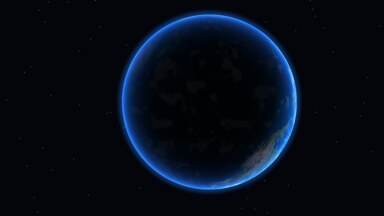
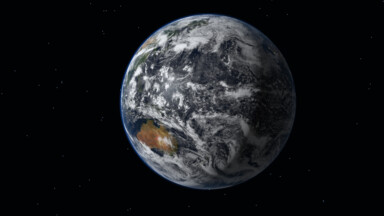
Integrate the published Blue Meridian Earth release

Changed region(s): [[0.2812, 0.0278, 0.8125, 0.9167]]

diff --git a/tests/test_build.py b/tests/test_build.py
@@ -250,6 +250,10 @@ class BuildChecks(unittest.TestCase):
                 'Cloud Drift Clock', 'com.jeremykenedy.clouddriftclock',
                 'com.jeremykenedy.clouddriftclock/.CloudDreamService', 'jeremykenedy/cloud-drift-clock',
[1 lines of base64/hex data omitted]
+            'blue-meridian': (
+                'Blue Meridian', 'com.jeremykenedy.bluemeridian',
+                'com.jeremykenedy.bluemeridian/.BlueMeridianDreamService', 'jeremykenedy/blue-meridian',
[1 lines of base64/hex data omitted]
             'earthbound-orbit': (
                 'Earthbound Orbit', 'com.jeremykenedy.earthboundorbit',
                 'com.jeremykenedy.earthboundorbit/.EarthboundOrbitDreamService',
@@ -295,7 +299,7 @@ class BuildChecks(unittest.TestCase):
             self.assertEqual(entry['package'], package)
             self.assertEqual(entry['dream'], dream)
             self.assertEqual(entry['repo'], repo)
-            release_tag = 'v2.0.0' if identifier == 'cloud-drift-clock' else {name: 'v1.1.0' for name in ('cloud-drift-clock', 'pipeworks-dream', 'nebula-drift', 'aqua-surface', 'split-flap-drift', 'canopy-drift')}.get(identifier, 'v1.0.0')
+            release_tag = 'v2.0.0' if identifier == 'cloud-drift-clock' else 'v1.0.1' if identifier == 'blue-meridian' else {name: 'v1.1.0' for name in ('cloud-drift-clock', 'pipeworks-dream', 'nebula-drift', 'aqua-surface', 'split-flap-drift', 'canopy-drift')}.get(identifier, 'v1.0.0')
             self.assertEqual(entry['tag'], release_tag)
             asset = 'aqua-surface-drift.apk' if identifier == 'aqua-surface' else f'{identifier}.apk'
             self.assertEqual(entry['url'],

diff --git a/docs/screensaver-previews.md b/docs/screensaver-previews.md
@@ -52,3 +52,9 @@ Prism Clock uses the [unretouched physical silver capture](../art/screenshots/pr
 The Cloud Drift Clock preview now comes from its final physical Fire TV API 28 capture of the real sunset flight, with the clock off. The 384x216 thumbnail is resized from the unretouched [native capture](../art/screenshots/cloud-flight-fire-tv-api28-1920.png). The filmed scene is by anotherview under CC BY 3.0; its attribution and complete license are bundled in **Advanced > Preview media credits**.
 
[1 lines of base64/hex data omitted]
+
+## Blue Meridian 1.0.1
+
+Blue Meridian uses its unretouched [physical Fire TV API 30 Earth capture](../art/screenshots/blue-meridian-earth-fire-tv-api30-1920.png), resized to 384x216 for the picker. There is no NASA word or watermark painted on the scene. Its archival day, cloud and night-light imagery is attributed in the offline preview credits. The globe is not current weather; camera movement is gentle screen drift rather than orbital flight.
+
[1 lines of base64/hex data omitted]
